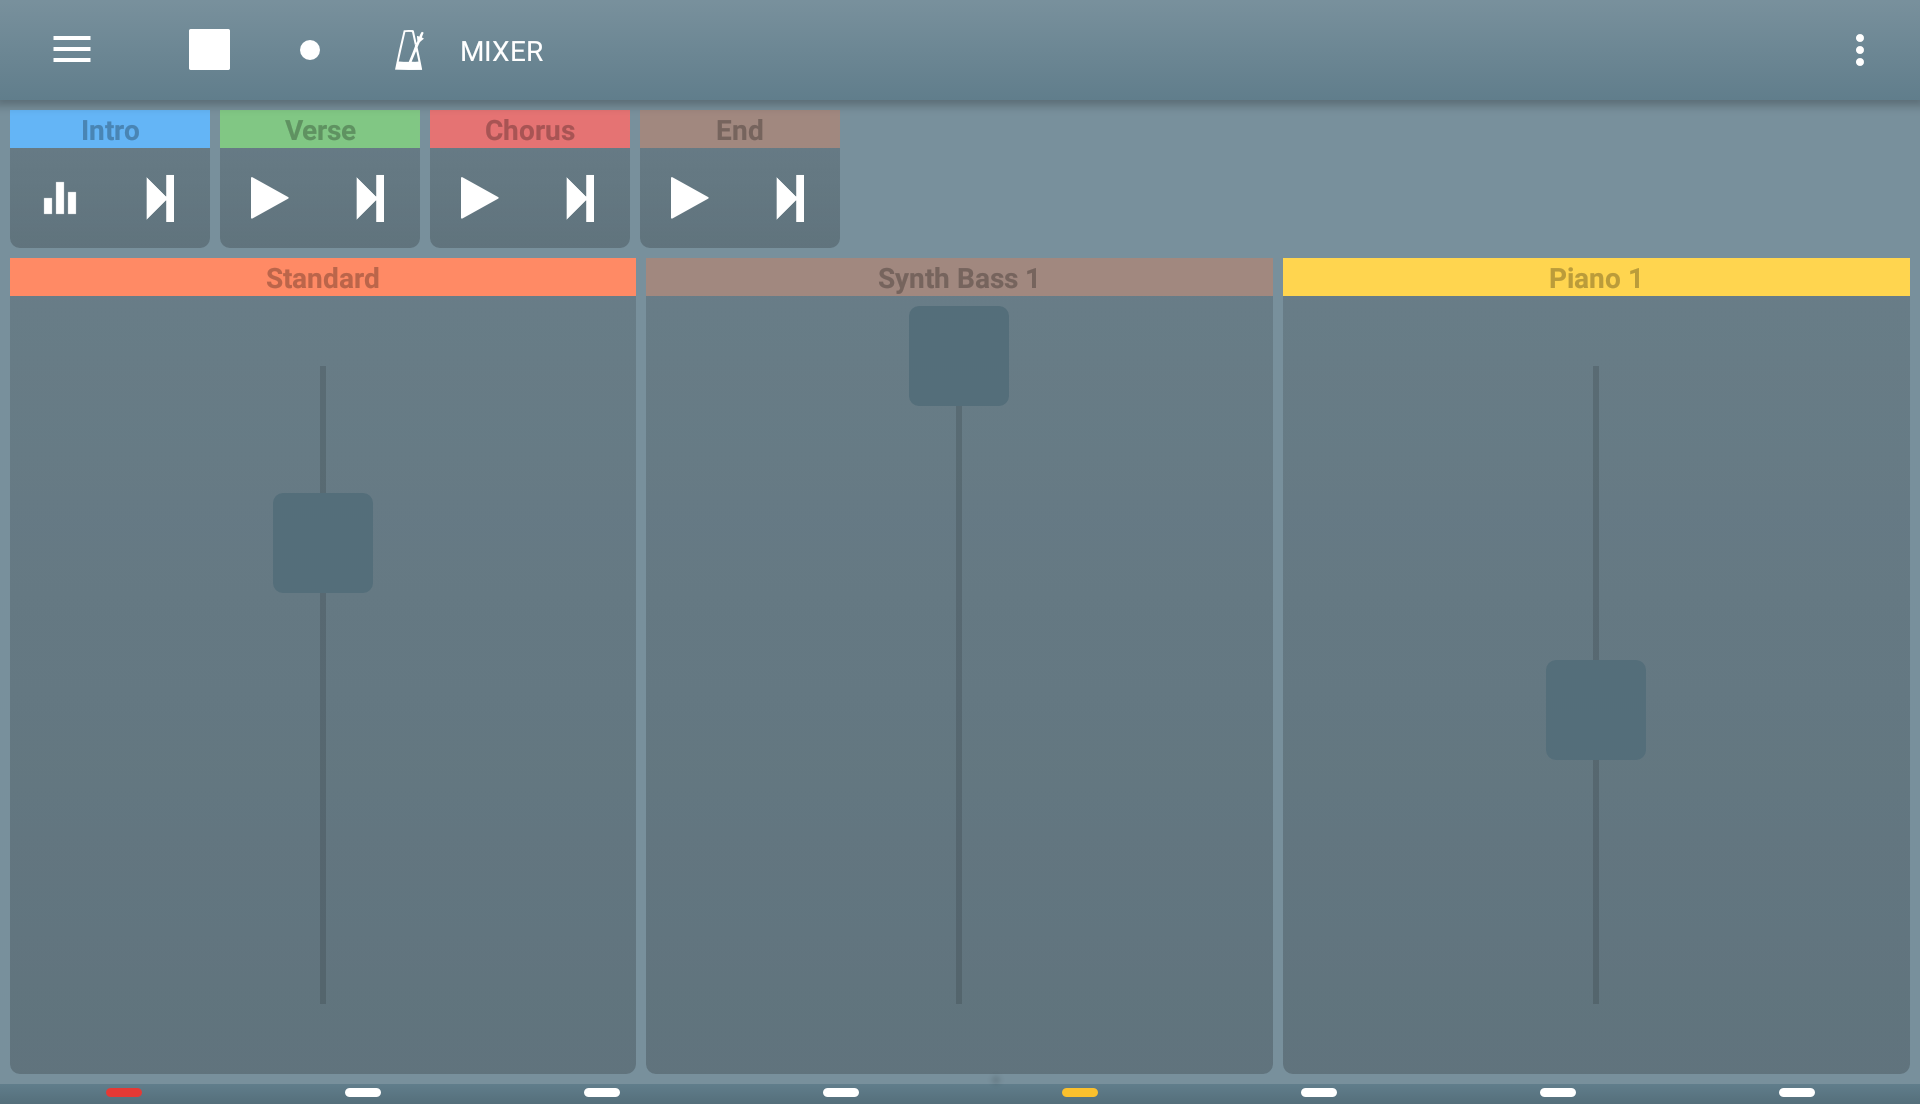
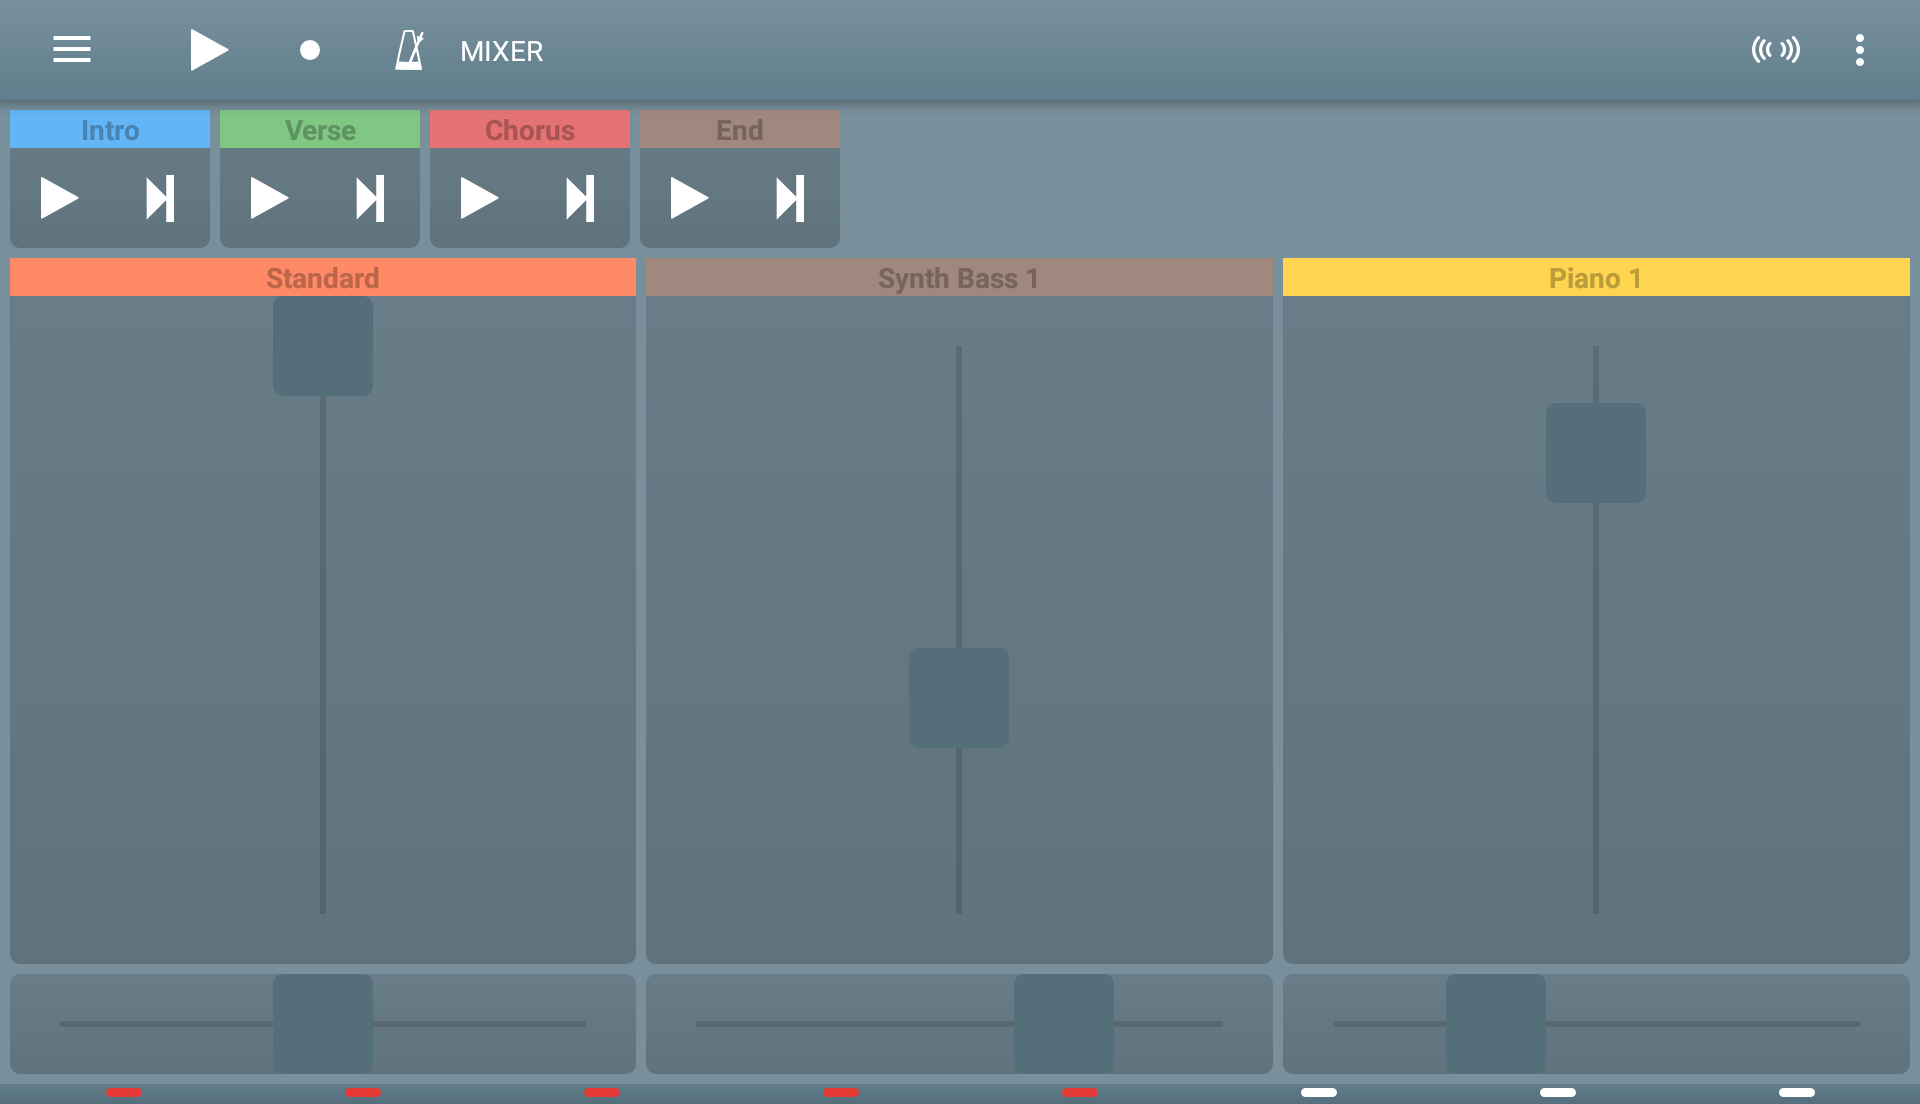
Update features and user-manual with pan infos

diff --git a/midi-sequencer/user-manual.html b/midi-sequencer/user-manual.html
@@ -326,6 +326,8 @@
 		<div class="card">
 			<div class="card-block">
 				<h2 class="card-title">Mixer</h2>
+				<p>Usefull to change sequences and change tracks settings live</p>
+				<hr/>
 				<div class="row">
 					<div class="col-lg-7">
 						<div id="tuto-image-mixer" class="tuto-image" markers-list="tuto-image-mixer-markers-list" title="Mixer">
@@ -338,12 +340,19 @@
 							<div class="tuto-image-marker"><b>Play sequence</b><br/>Sequence will be played immediatly</div>
 							<div class="tuto-image-marker"><b>Play next</b><br/>Sequence will be played at the end of the current loop</div>
 							<div class="tuto-image-marker tuto-image-marker-square">Tracks</div>
-							<div class="tuto-image-marker">Volume controler</div>
+							<div class="tuto-image-marker"><b>Expression</b> controler</div>
+							<div class="tuto-image-marker"><b>Pan</b> controler</div>
+							<div class="tuto-image-marker">Show/hide <b>pan controlers</b></div>
 						</div>
 					</div>
 					<div class="col-lg-5">
 						<div id="tuto-image-mixer-markers-list" class="tuto-image-markers-list"></div>
 					</div>
+				</div>
+				<hr/>
+				<div>
+					<p>Expression can be controled with external MIDI devices, use controler type number 11</p>
+					<p>Pan can be controled with external MIDI devices, use controler type number 10</p>
 				</div>
 			</div>
 		</div>

diff --git a/midi-sequencer/features.html b/midi-sequencer/features.html
@@ -186,9 +186,9 @@
 					<div class="card-block">
 						<h2 class="card-title">Mixer</h2>
 						<ul>
-							<li><b>Mix</b> tracks volumes</li>
-							<li>Easy <b>switch</b> between sequences</li>
-  							<li>Control faders with and external <b>MIDI controler</b></li>
+							<li>Tracks <b>expression</b> controllers</li>
+							<li>Tracks <b>pan</b> controllers</li>
+							<li>Easy <b>switch between sequences</b></li>
 						</ul>
 					</div>
 				</div>

diff --git a/midi-sequencer/css/images-markers.css b/midi-sequencer/css/images-markers.css
@@ -312,8 +312,18 @@
 }
 
 #tuto-image-mixer #tuto-image-marker-4 {
-    left: 82.8%;
-    top: 72.5%;
+    left: 83.1%;
+    top: 62.5%;
+}
+
+#tuto-image-mixer #tuto-image-marker-5 {
+    left: 85.0%;
+    top: 92.5%;
+}
+
+#tuto-image-mixer #tuto-image-marker-6 {
+    left: 92.5%;
+    top: 10.0%;
 }
 
 
